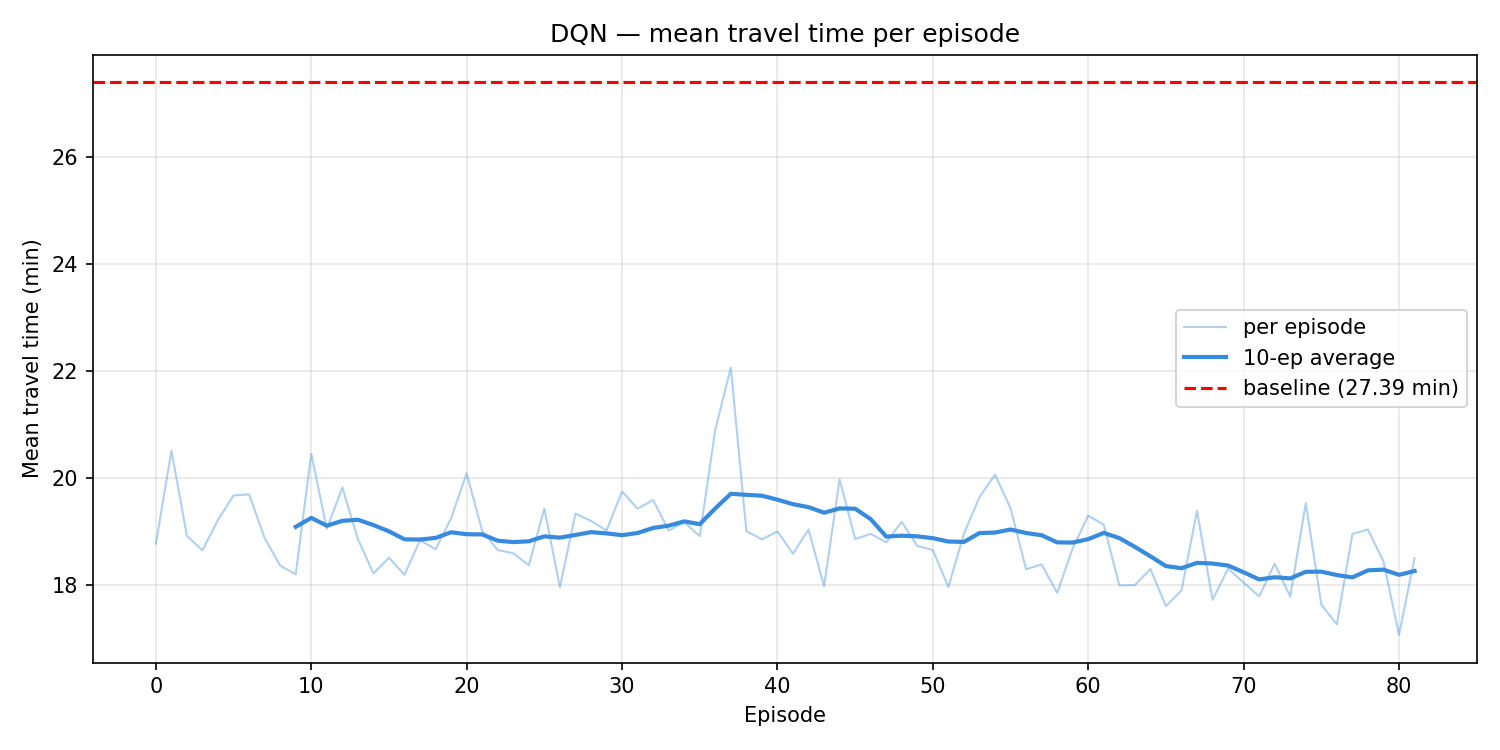
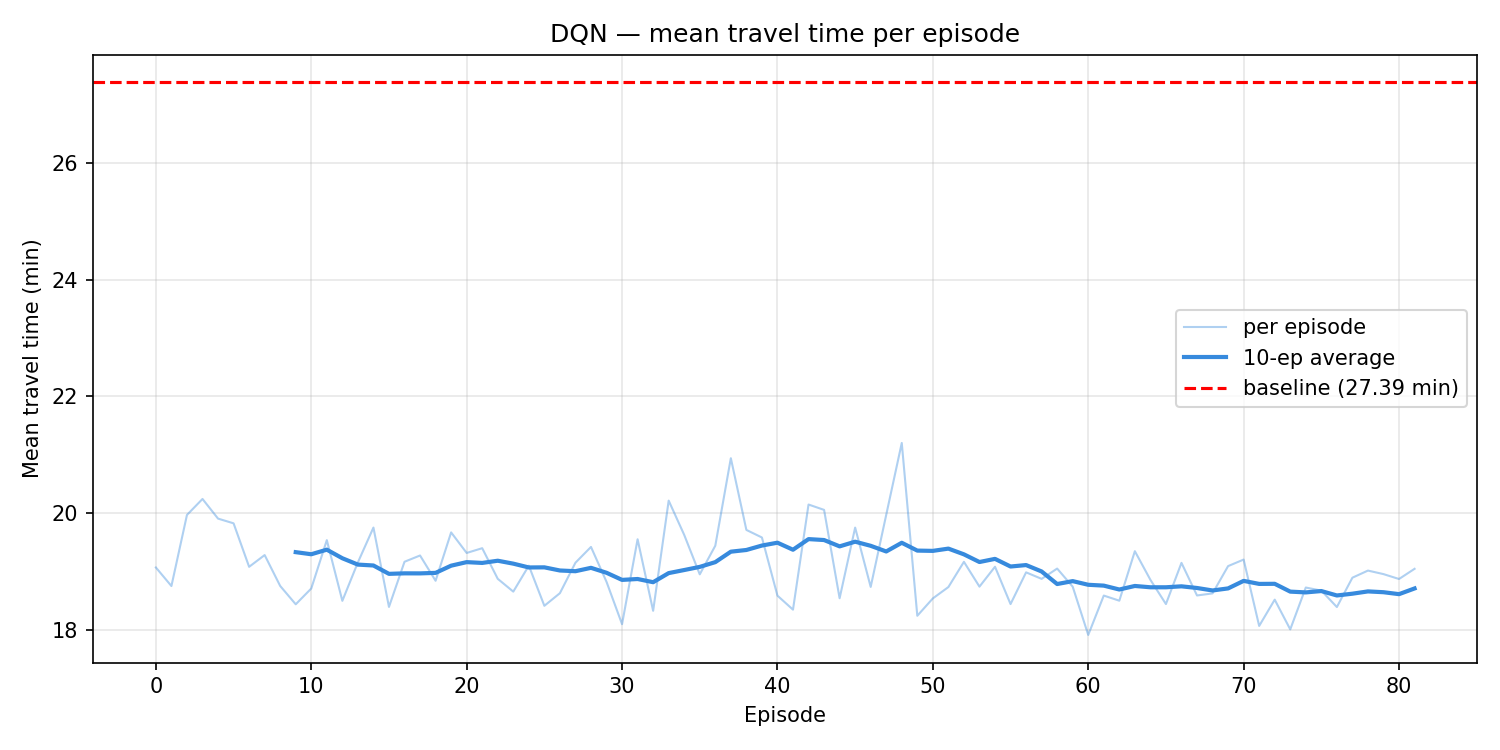
added an exponential negative reward for invalid moves

diff --git a/mbta_env.py b/mbta_env.py
@@ -88,6 +88,9 @@ class MBTAEnv(gym.Env):
 
         self._hour = 7
 
+        # for invalid rewards (Number of invalid actions)
+        self.num_invalid_actions = 0 
+
         # [action_type, node_u, node_v]
         self.num_actions = 4 * self.N * self.N
         self.action_space = spaces.Discrete(self.num_actions)
@@ -327,7 +330,9 @@ class MBTAEnv(gym.Env):
 
         # apply penalty for invalid actions - fallback for action masking
         if not valid:
-            reward -= 1000.0
+            # reward -= 1000.0
+            reward -= e ** (1000 * self.num_invalid_actions)
+            self.num_invalid_actions += 1
 
         # no "winning" state, agent just runs until max_steps
         terminated = False
